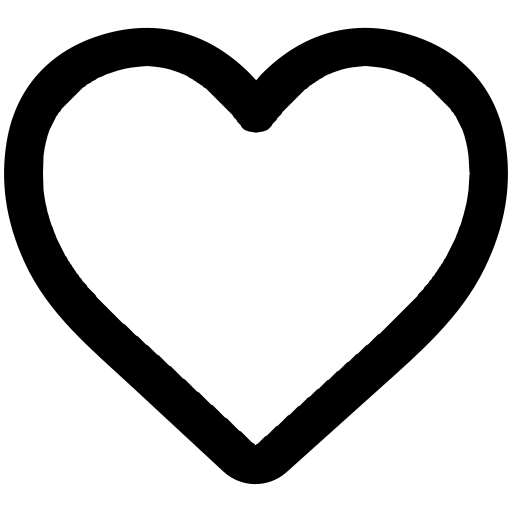
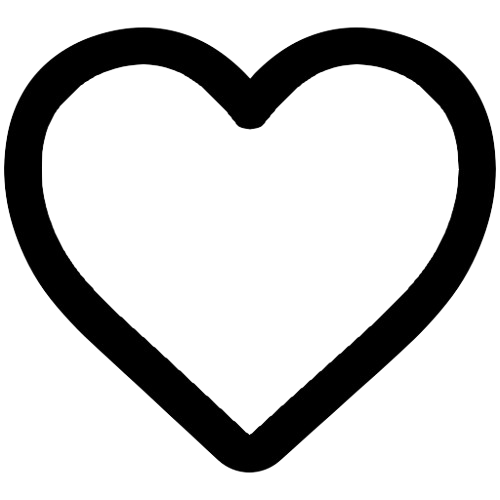
투표 화면 버튼 제거

diff --git a/TeamProject/TeamProject/VoteMainScreen.java b/TeamProject/TeamProject/VoteMainScreen.java
@@ -23,11 +23,10 @@ public class VoteMainScreen extends JFrame {
 	private BufferedImage image;
 	private ImageIcon image2;
 	private JLabel alarmLabel, profileLabel, voteLabel, addButtonLabel, photoLabel, homeLabel, commuLabel,
-			imageProfileLabel, likeCountLabel, logoLabel;
+			imageProfileLabel, likeCountLabel, logoLabel, popularLabel, newLabel, oldLabel, voteAddLabel;
 	private JPanel votePanel; // 투표 패널
 	private JScrollPane scrollPane; // 스크롤 패널
 	private VoteAddDialog va;
-	private JButton popularButton, recentButton, oldButton;
 	private TPMgr mgr = new TPMgr();
 
 	private Vector<VoteBean> vlist = mgr.showVote(StaticData.vote_id);;
@@ -79,6 +78,30 @@ public class VoteMainScreen extends JFrame {
 					dispose();
 					new VoteMainScreen();
 				} else if (source == addButtonLabel) {
+					if(popularLabel.isVisible()) {
+						popularLabel.setVisible(false);
+						newLabel.setVisible(false);
+						oldLabel.setVisible(false);
+						voteAddLabel.setVisible(false);
+					} else {
+						popularLabel.setVisible(true);
+						newLabel.setVisible(true);
+						oldLabel.setVisible(true);
+						voteAddLabel.setVisible(true);
+					}
+				} else if (source == popularLabel) {
+					System.out.println("인기순 버튼 클릭됨");
+					vlist = mgr.popVote();
+					addVote();
+				} else if (source == newLabel) {
+					System.out.println("최신순 버튼 클릭됨");
+					vlist = mgr.newVote();
+					addVote();
+				} else if (source == oldLabel) {
+					System.out.println("오래된순 버튼 클릭됨");
+					vlist = mgr.oldVote();
+					addVote();
+				} else if(source == voteAddLabel) {
 					System.out.println("투표 추가 버튼 클릭됨!");
 					if (va == null) {
 						va = new VoteAddDialog(VoteMainScreen.this);
@@ -88,18 +111,10 @@ public class VoteMainScreen extends JFrame {
 						va.setVisible(true);
 					}
 					setEnabled(false);
-				} else if (source == popularButton) {
-					System.out.println("인기순 버튼 클릭됨");
-					vlist = mgr.popVote();
-					addVote();
-				} else if (source == recentButton) {
-					System.out.println("최신순 버튼 클릭됨");
-					vlist = mgr.newVote();
-					addVote();
-				} else if (source == oldButton) {
-					System.out.println("오래된순 버튼 클릭됨");
-					vlist = mgr.oldVote();
-					addVote();
+					popularLabel.setVisible(false);
+					newLabel.setVisible(false);
+					oldLabel.setVisible(false);
+					voteAddLabel.setVisible(false);
 				}
 			}
 		};
@@ -167,30 +182,34 @@ public class VoteMainScreen extends JFrame {
 		voteLabel.setBounds(305, 789, 55, 55);
 		voteLabel.addMouseListener(commonMouseListener);
 		add(voteLabel);
-
-		// 인기순 버튼
-		popularButton = new RoundedButton("인기순");
-		popularButton.setBounds(175, 165, 60, 30);
-		popularButton.setBackground(new Color(91, 91, 91));
-		popularButton.setForeground(Color.WHITE);
-		popularButton.addMouseListener(commonMouseListener);
-		add(popularButton);
-
-		// 최신순 버튼
-		recentButton = new RoundedButton("최신순");
-		recentButton.setBounds(245, 165, 60, 30);
-		recentButton.setBackground(new Color(91, 91, 91));
-		recentButton.setForeground(Color.WHITE);
-		recentButton.addMouseListener(commonMouseListener);
-		add(recentButton);
-
-		// 오래된 순 버튼
-		oldButton = new RoundedButton("오래된순");
-		oldButton.setBounds(315, 165, 60, 30);
-		oldButton.setBackground(new Color(91, 91, 91));
-		oldButton.setForeground(Color.WHITE);
-		oldButton.addMouseListener(commonMouseListener);
-		add(oldButton);
+		
+		//인기순
+		popularLabel = createScaledImageLabel("TeamProject/popularity.png", 40, 40);
+		popularLabel.setBounds(305, 615, 40, 40);
+		popularLabel.addMouseListener(commonMouseListener);
+		popularLabel.setVisible(false);
+		add(popularLabel); 
+		
+		//최신순
+		newLabel = createScaledImageLabel("TeamProject/new.png", 40, 40);
+		newLabel.setBounds(305, 555, 40, 40);
+		newLabel.addMouseListener(commonMouseListener);
+		newLabel.setVisible(false);
+		add(newLabel); 
+		
+		//오래된순
+		oldLabel = createScaledImageLabel("TeamProject/old.png", 40, 40);
+		oldLabel.setBounds(305, 495, 40, 40);
+		oldLabel.addMouseListener(commonMouseListener);
+		oldLabel.setVisible(false);
+		add(oldLabel);
+		
+		//투표 추가 버튼
+		voteAddLabel = createScaledImageLabel("TeamProject/vote_add.png", 40, 40);
+		voteAddLabel.setBounds(305, 675, 40, 40);
+		voteAddLabel.addMouseListener(commonMouseListener);
+		voteAddLabel.setVisible(false);
+		add(voteAddLabel); 
 
 		// 🔹 배경 패널
 		JPanel panel = new JPanel() {
@@ -202,6 +221,7 @@ public class VoteMainScreen extends JFrame {
 					g.drawImage(scaledImage, 0, 0, this);
 				}
 				g.setColor(Color.LIGHT_GRAY);
+				g.drawLine(22, 165, 379, 165);
 				g.drawLine(22, 780, 379, 780);
 				g.drawLine(111, 780, 111, 851);
 				g.drawLine(200, 780, 200, 851);
@@ -234,7 +254,7 @@ public class VoteMainScreen extends JFrame {
 		// 🔹 스크롤 패널 추가 (23, 165, 357, 615 영역에 배치)
 		// 이전 코드에서는 scrollPane이 이 부분 앞에 있을 수 있어, 여기에 잘못된 위치에서 접근되고 있었을 가능성이 있습니다.
 		scrollPane = new JScrollPane(votePanel);
-		scrollPane.setBounds(23, 200, 357, 580);
+		scrollPane.setBounds(23, 165, 357, 615);
 		scrollPane.setVerticalScrollBarPolicy(JScrollPane.VERTICAL_SCROLLBAR_NEVER); // 스크롤바 숨기기
 		scrollPane.setHorizontalScrollBarPolicy(JScrollPane.HORIZONTAL_SCROLLBAR_NEVER);
 		scrollPane.getVerticalScrollBar().setUnitIncrement(16); // 부드러운 스크롤 유지
@@ -359,7 +379,7 @@ public class VoteMainScreen extends JFrame {
 			layeredPane.setBounds(0, 0, 176, 150); // 전체 크기 맞춤
 			// 🔹 이미지 추가 (기본 레이어)
 			layeredPane.add(imageLabel, JLayeredPane.DEFAULT_LAYER);
-			JLabel voteLabel = createScaledImageLabel("TeamProject/vote.png", 40, 40);
+			JLabel voteLabel = createScaledImageLabel("TeamProject/vote_empty.png", 40, 40);
 
 			// 중복 투표 여부 확인
 			if (!mgr.alrLikeVote(vb.getVote_id(), StaticData.user_id)) {

diff --git a/TeamProject/TeamProject/VoteScreenDialog.java b/TeamProject/TeamProject/VoteScreenDialog.java
@@ -75,7 +75,7 @@ public class VoteScreenDialog extends JFrame {
 			heartLabel.setOpaque(false);
 			heartLabel.addMouseListener(commonMouseListener);
 		} else {
-			heartLabel = createScaledImageLabel("TeamProject/vote.png", 70, 70);
+			heartLabel = createScaledImageLabel("TeamProject/vote_empty.png", 70, 70);
 			heartLabel.setBounds(235, 240, 70, 70);
 			heartLabel.addMouseListener(commonMouseListener);
 		}
